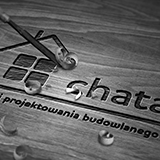
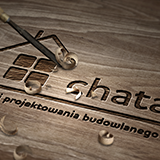
effect of brand and portfolio images

diff --git a/style.css b/style.css
@@ -257,10 +257,6 @@ footer {
     }
 }
 
-
-
-/* ----------------------------- */
-
 /* Our team */
 
 .team_main {
@@ -413,6 +409,11 @@ h3 {
     background-size: cover;
     background-position: 50% 50%;
     opacity: 0.5;
+    cursor: pointer;
+}
+
+.port div:hover {
+    opacity: 1;
 }
 
 .port1 {
@@ -487,6 +488,13 @@ h3 {
     background-repeat: no-repeat;
     background-position: 50% 50%;
     opacity: 0.3;
+    filter: grayscale(100%);
+    cursor: pointer;
+}
+
+.brands div:hover {
+    filter: grayscale(0%);
+    opacity: 0.5;
 }
 
 .brand1 {
